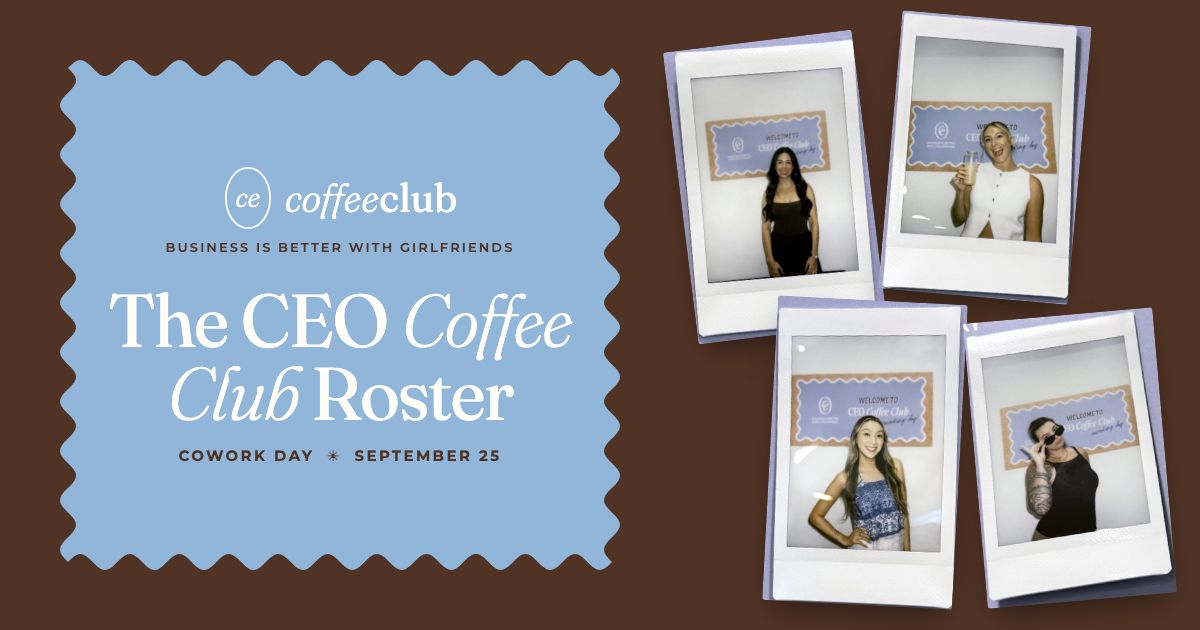
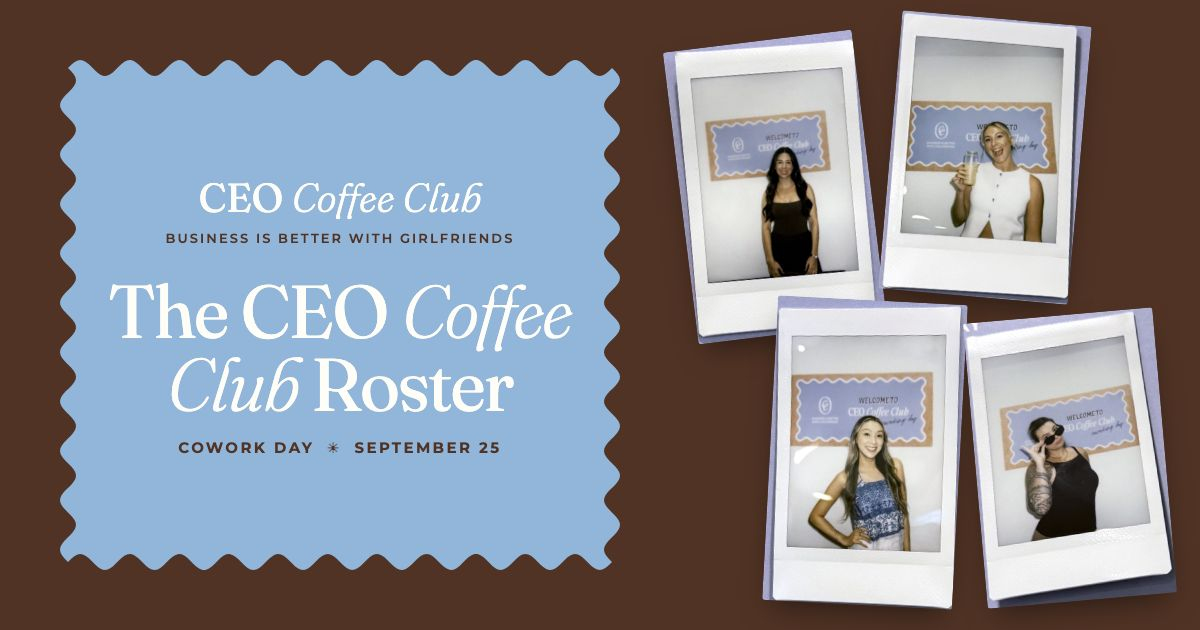
Top lockup reads CEO Coffee Club; refresh preview image

Changed region(s): [[0.0925, 0.4524, 0.4933, 0.6635], [0.1233, 0.2714, 0.4317, 0.4222], [0.1233, 0.6937, 0.4317, 0.754]]

diff --git a/index.html b/index.html
@@ -165,8 +165,7 @@ footer .gift{margin-top:26px;font-family:var(--hand);font-size:21px;opacity:.85}
 <header class="hero">
   <div class="hero-card" data-wavy data-a="6" data-l="46">
     <div class="lockup" aria-label="CEO Coffee Club">
-      <svg viewBox="0 0 44 58" aria-hidden="true"><ellipse cx="22" cy="29" rx="19.5" ry="26.5" fill="none" stroke="currentColor" stroke-width="1.6"/><text x="22" y="37" text-anchor="middle" font-family="Fraunces, Georgia, serif" font-style="italic" font-weight="300" font-size="25" fill="currentColor">ce</text></svg>
-      <span class="wm"><i>coffee</i>club</span>
+      <span class="wm">CEO <i>Coffee Club</i></span>
     </div>
     <div class="tag">Business is better with girlfriends</div>
     <h1>The CEO <i>Coffee Club</i> Roster</h1>
